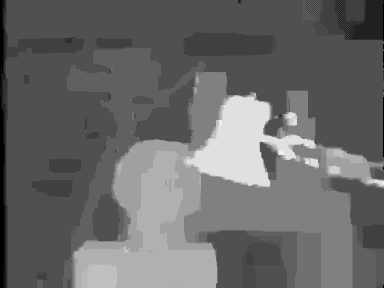
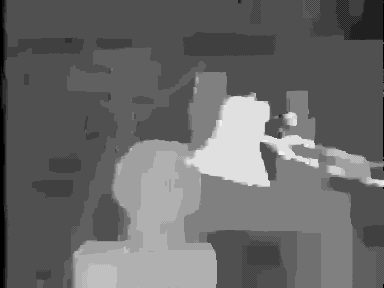
Add files via upload

diff --git a/MaxProduct.m b/MaxProduct.m
@@ -1,7 +1,6 @@
 dispLevels = 16;
 iterations = 80;
-%lambda = 5;
-lambda = 0.3;
+lambda = 5;
 threshold = dispLevels-1; %don't use threshold
 
 % Set the disparity values
@@ -22,13 +21,13 @@ right = imgaussfilt(right,0.6,'FilterSize',5);
 dataCost = zeros(height,width,dispLevels);
 for i = 1:dispLevels
 	right_d = [zeros(height,d(i)),right(:,1:end-d(i))];
-	%dataCost(:,:,i) = exp(-abs(double(left)-double(right_d)));
-	dataCost(:,:,i) = 255-abs(double(left)-double(right_d));
+	dataCost(:,:,i) = exp(-abs(double(left)-double(right_d)));
+	%dataCost(:,:,i) = 255-abs(double(left)-double(right_d));
 end
 
 % Cache smoothness cost
-%smoothnessCost = exp(-lambda*min(abs(d-d'),threshold));
-smoothnessCost = max(threshold-abs(d-d'),0).^lambda;
+smoothnessCost = exp(-lambda*min(abs(d-d'),threshold));
+%smoothnessCost = max(threshold-abs(d-d'),0).^lambda; %lambda=0.3
 
 % Initialize messages
 msgUp = ones(height,width,dispLevels);
